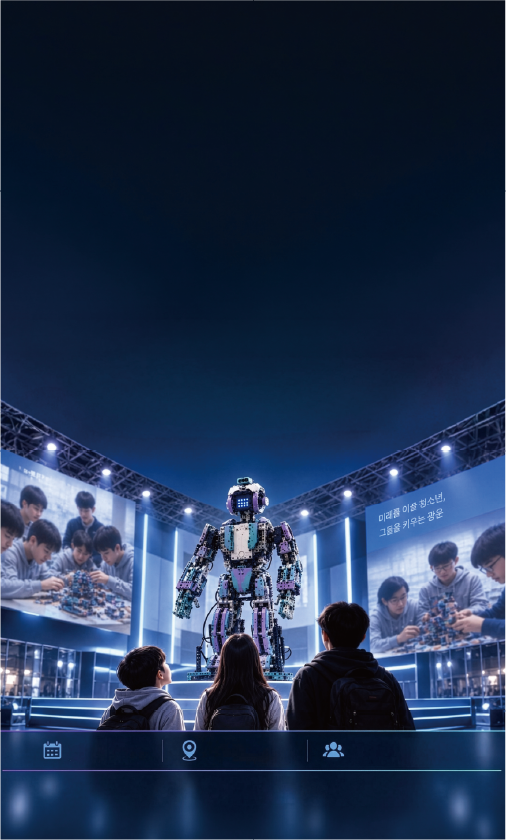
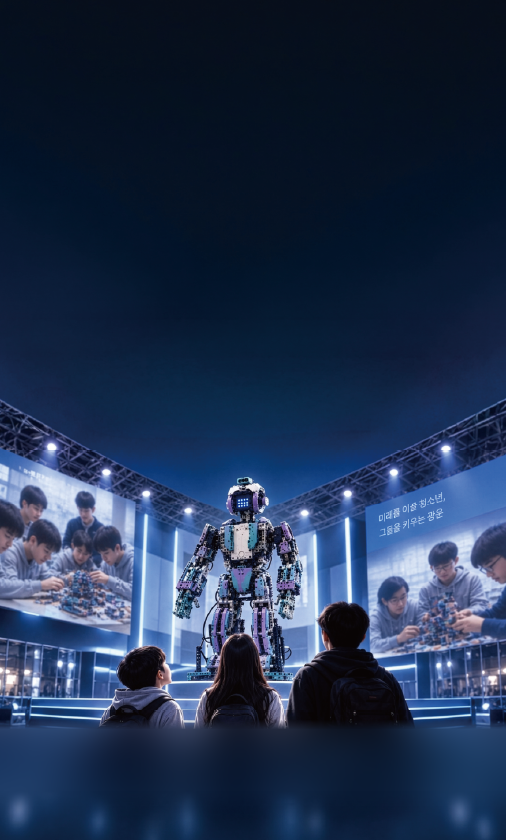
표지 이미지의 정보 바 제거, HTML 3단 표로 재구현

diff --git a/index.html b/index.html
@@ -47,13 +47,16 @@
   .cover-title .main{font-size:clamp(44px,15vw,72px);font-weight:900;margin:22px 0 4px;letter-spacing:-.02em;
     text-shadow:0 0 12px rgba(190,215,255,.75),0 0 28px rgba(120,170,255,.45)}
   .cover-title .main2{font-size:clamp(22px,7.4vw,34px);font-weight:800;text-shadow:0 0 10px rgba(170,200,255,.6)}
-  .cover-bar{position:absolute;left:0;right:0;top:87.2%;height:4.6%;display:grid;grid-template-columns:1fr 1fr 1fr;
-    font-size:clamp(8.5px,2.35vw,11px);line-height:1.3;color:#e8ecf5}
-  .cover-bar{font-size:clamp(7.5px,2.15vw,10.5px)}
-  .cover-bar div{display:flex;align-items:center;padding:0 2% 0 40%;white-space:nowrap}
-  .cover-bar div:nth-child(2){padding-left:24%}
-  .cover-bar div:nth-child(3){padding-left:10%;white-space:normal}
-  .cover-logo{position:absolute;left:50%;top:95.9%;width:31%;transform:translate(-50%,-50%);display:block}
+  .cover-bar{position:absolute;left:0;right:0;top:86.4%;display:grid;grid-template-columns:1fr 1fr 1.3fr;
+    padding-block:1.5%;background:rgba(8,18,48,.35);
+    border-top:1px solid rgba(170,195,255,.35);border-bottom:1px solid rgba(190,210,255,.85);
+    box-shadow:0 1px 8px rgba(130,170,255,.45);
+    font-size:clamp(7.5px,2.2vw,10.5px);line-height:1.35;color:#e8ecf5}
+  .cover-bar>div{display:flex;align-items:center;justify-content:center;gap:.7em;padding:0 2.5%}
+  .cover-bar>div+div{border-left:1px solid rgba(170,195,255,.35)}
+  .cover-bar svg{flex:0 0 auto;width:1.45em;height:1.45em;fill:none;stroke:#dfe7ff;stroke-width:1.8;stroke-linecap:round;stroke-linejoin:round}
+  .cover-bar span{white-space:nowrap}
+  .cover-logo{position:absolute;left:50%;top:96.1%;width:31%;transform:translate(-50%,-50%);display:block}
 
   /* 달력 · 카운트다운 */
   .cal-head{font-size:15px;font-weight:700;color:var(--sub);margin-bottom:12px}
@@ -141,9 +144,9 @@
       <div class="main2">&amp; 지역 상생 한마당</div>
     </div>
     <div class="cover-bar">
-      <div>2026.10.29 (목)<br>14:00 ~ 18:00</div>
-      <div>광운대학교<br>광운스퀘어 원형 광장</div>
-      <div>노원구 주민단체 및 미래 로봇 관련 학업을 이어갈 청소년</div>
+      <div><svg viewBox="0 0 24 24"><rect x="3" y="5" width="18" height="16" rx="2"/><path d="M3 10h18M8 3v4M16 3v4"/></svg><span>2026.10.29 (목)<br>14:00 ~ 18:00</span></div>
+      <div><svg viewBox="0 0 24 24"><path d="M12 21s-7-6.2-7-11.5A7 7 0 0 1 19 9.5C19 14.8 12 21 12 21z"/><circle cx="12" cy="9.5" r="2.5"/></svg><span>광운대학교<br>광운스퀘어 원형 광장</span></div>
+      <div><svg viewBox="0 0 24 24"><circle cx="9" cy="8" r="3"/><circle cx="17" cy="9" r="2.5"/><path d="M3 20c0-3.3 2.7-6 6-6s6 2.7 6 6M15 14.5c3 0 6 1.8 6 5.5"/></svg><span>노원구 주민단체 및 미래 로봇<br>관련 학업을 이어갈 청소년</span></div>
     </div>
     <img class="cover-logo" src="kw-logo-white.png" alt="광운대학교 KwangWoon University">
   </header>
